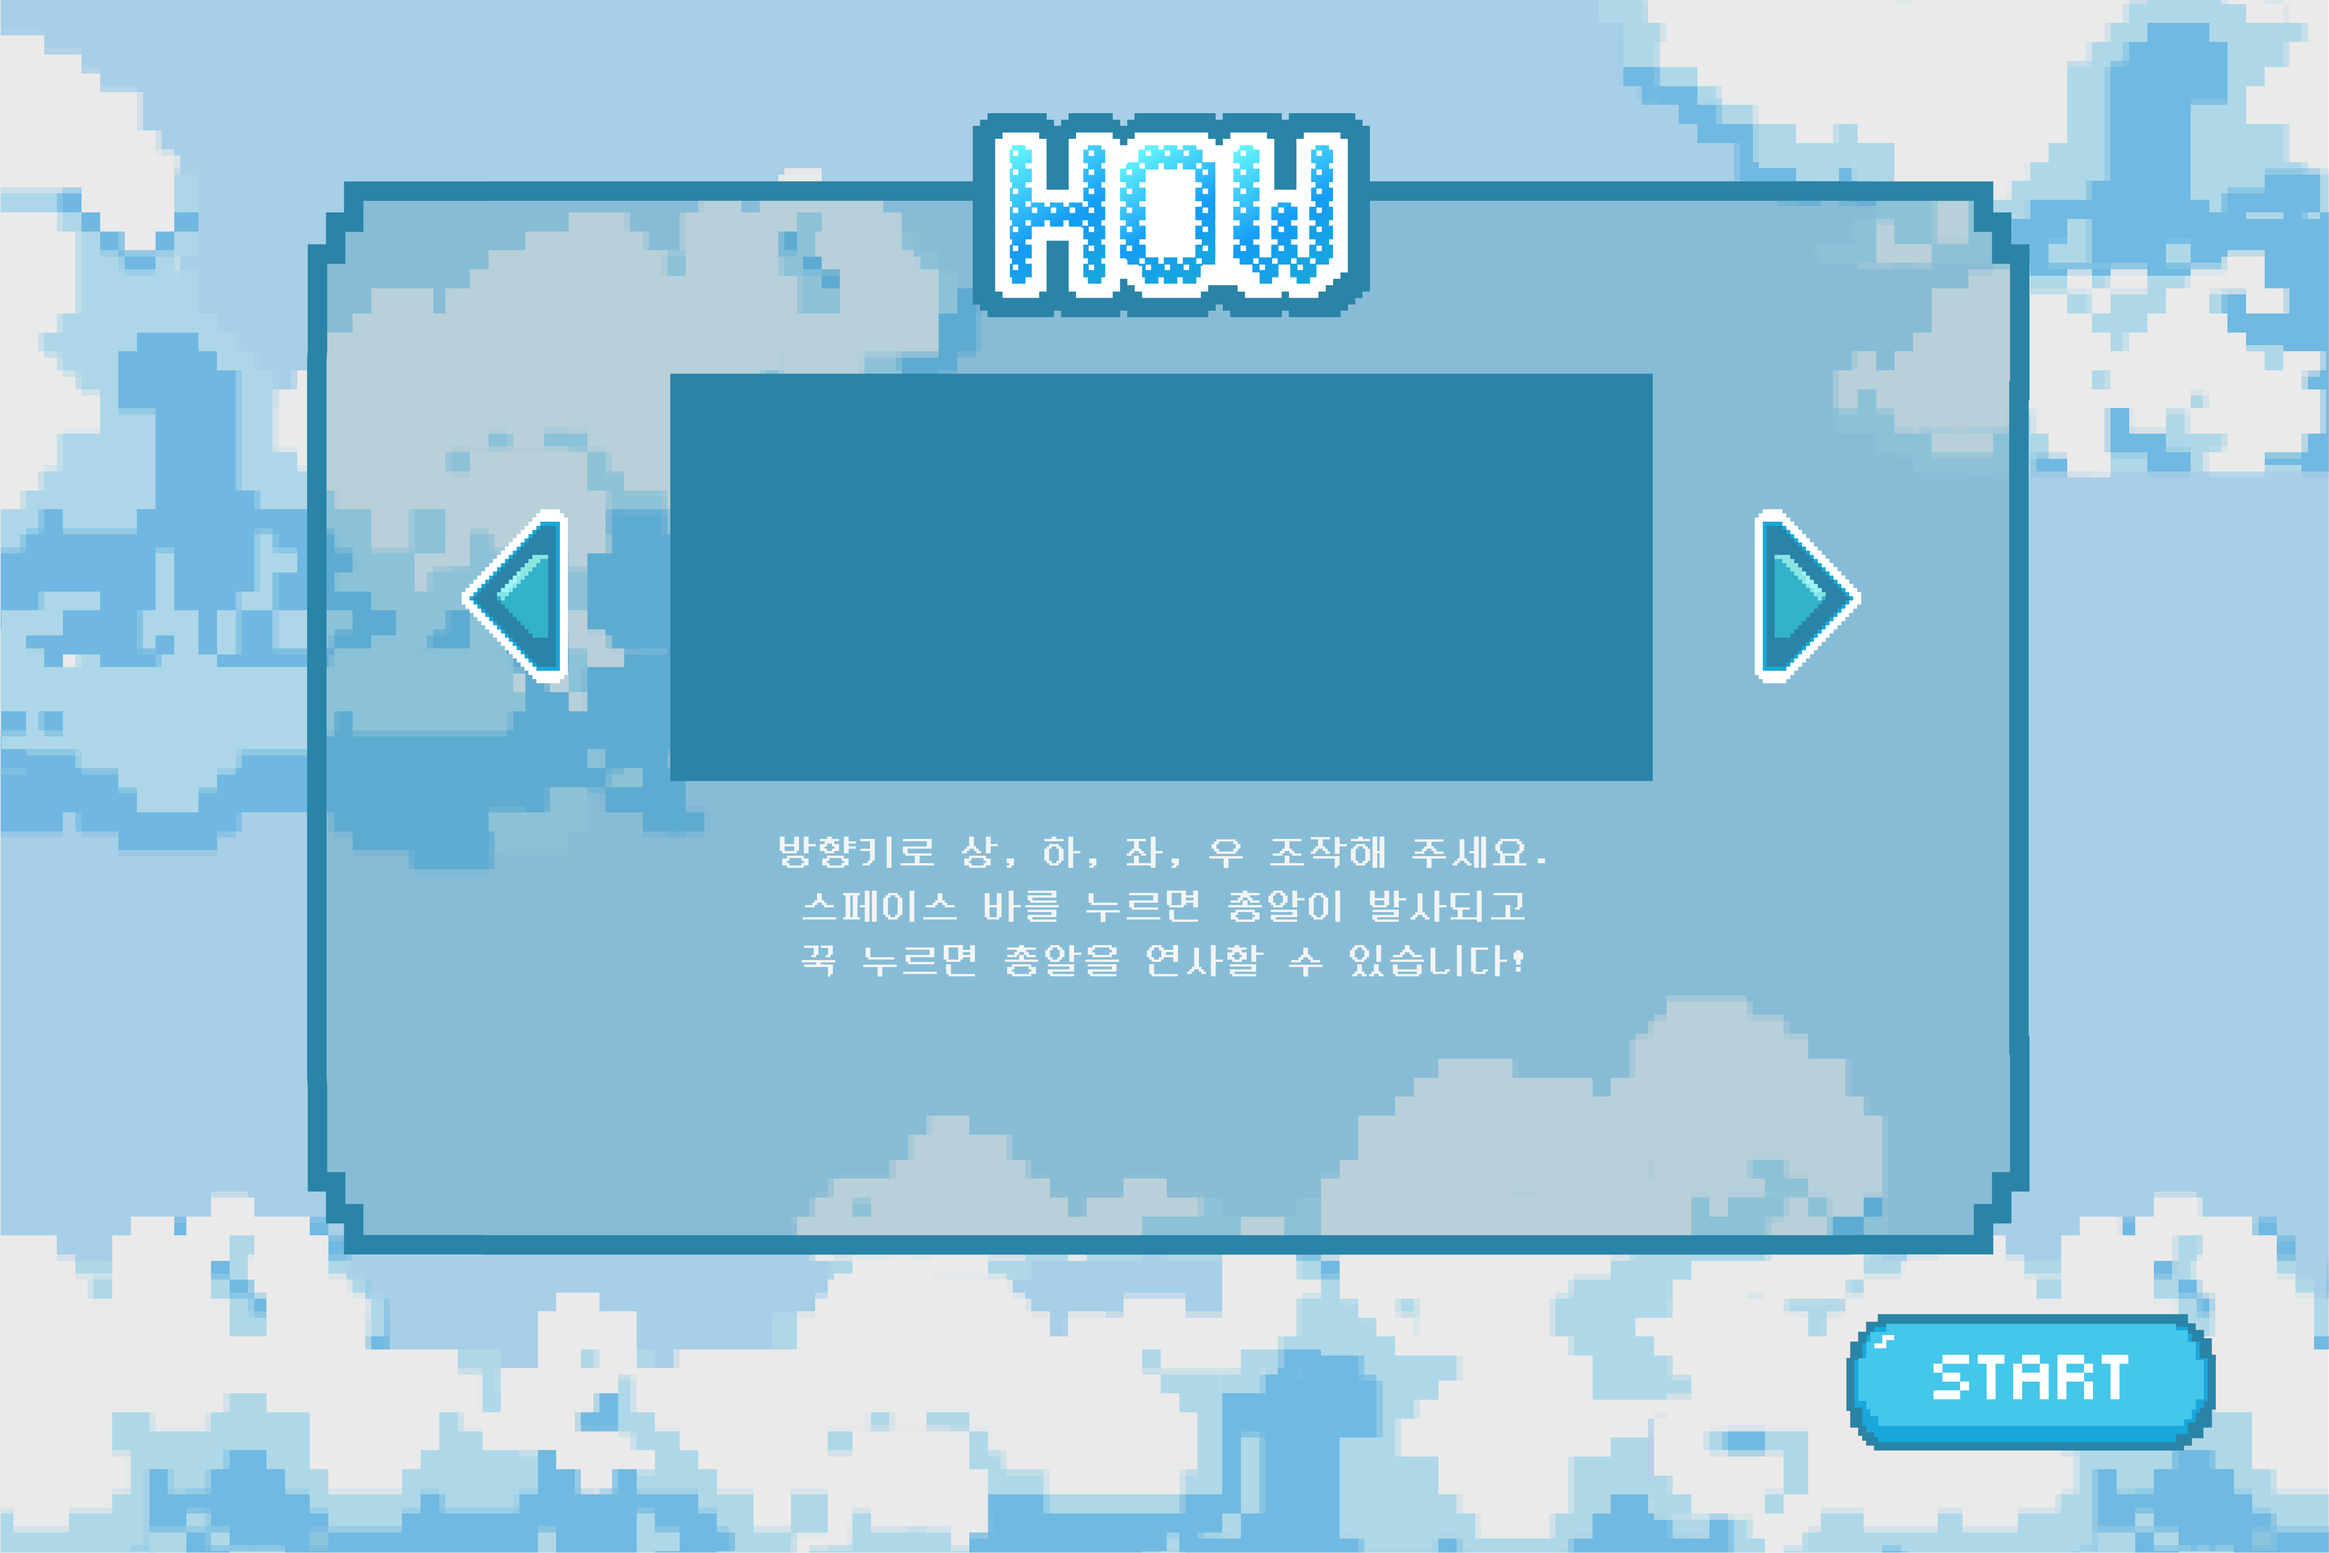
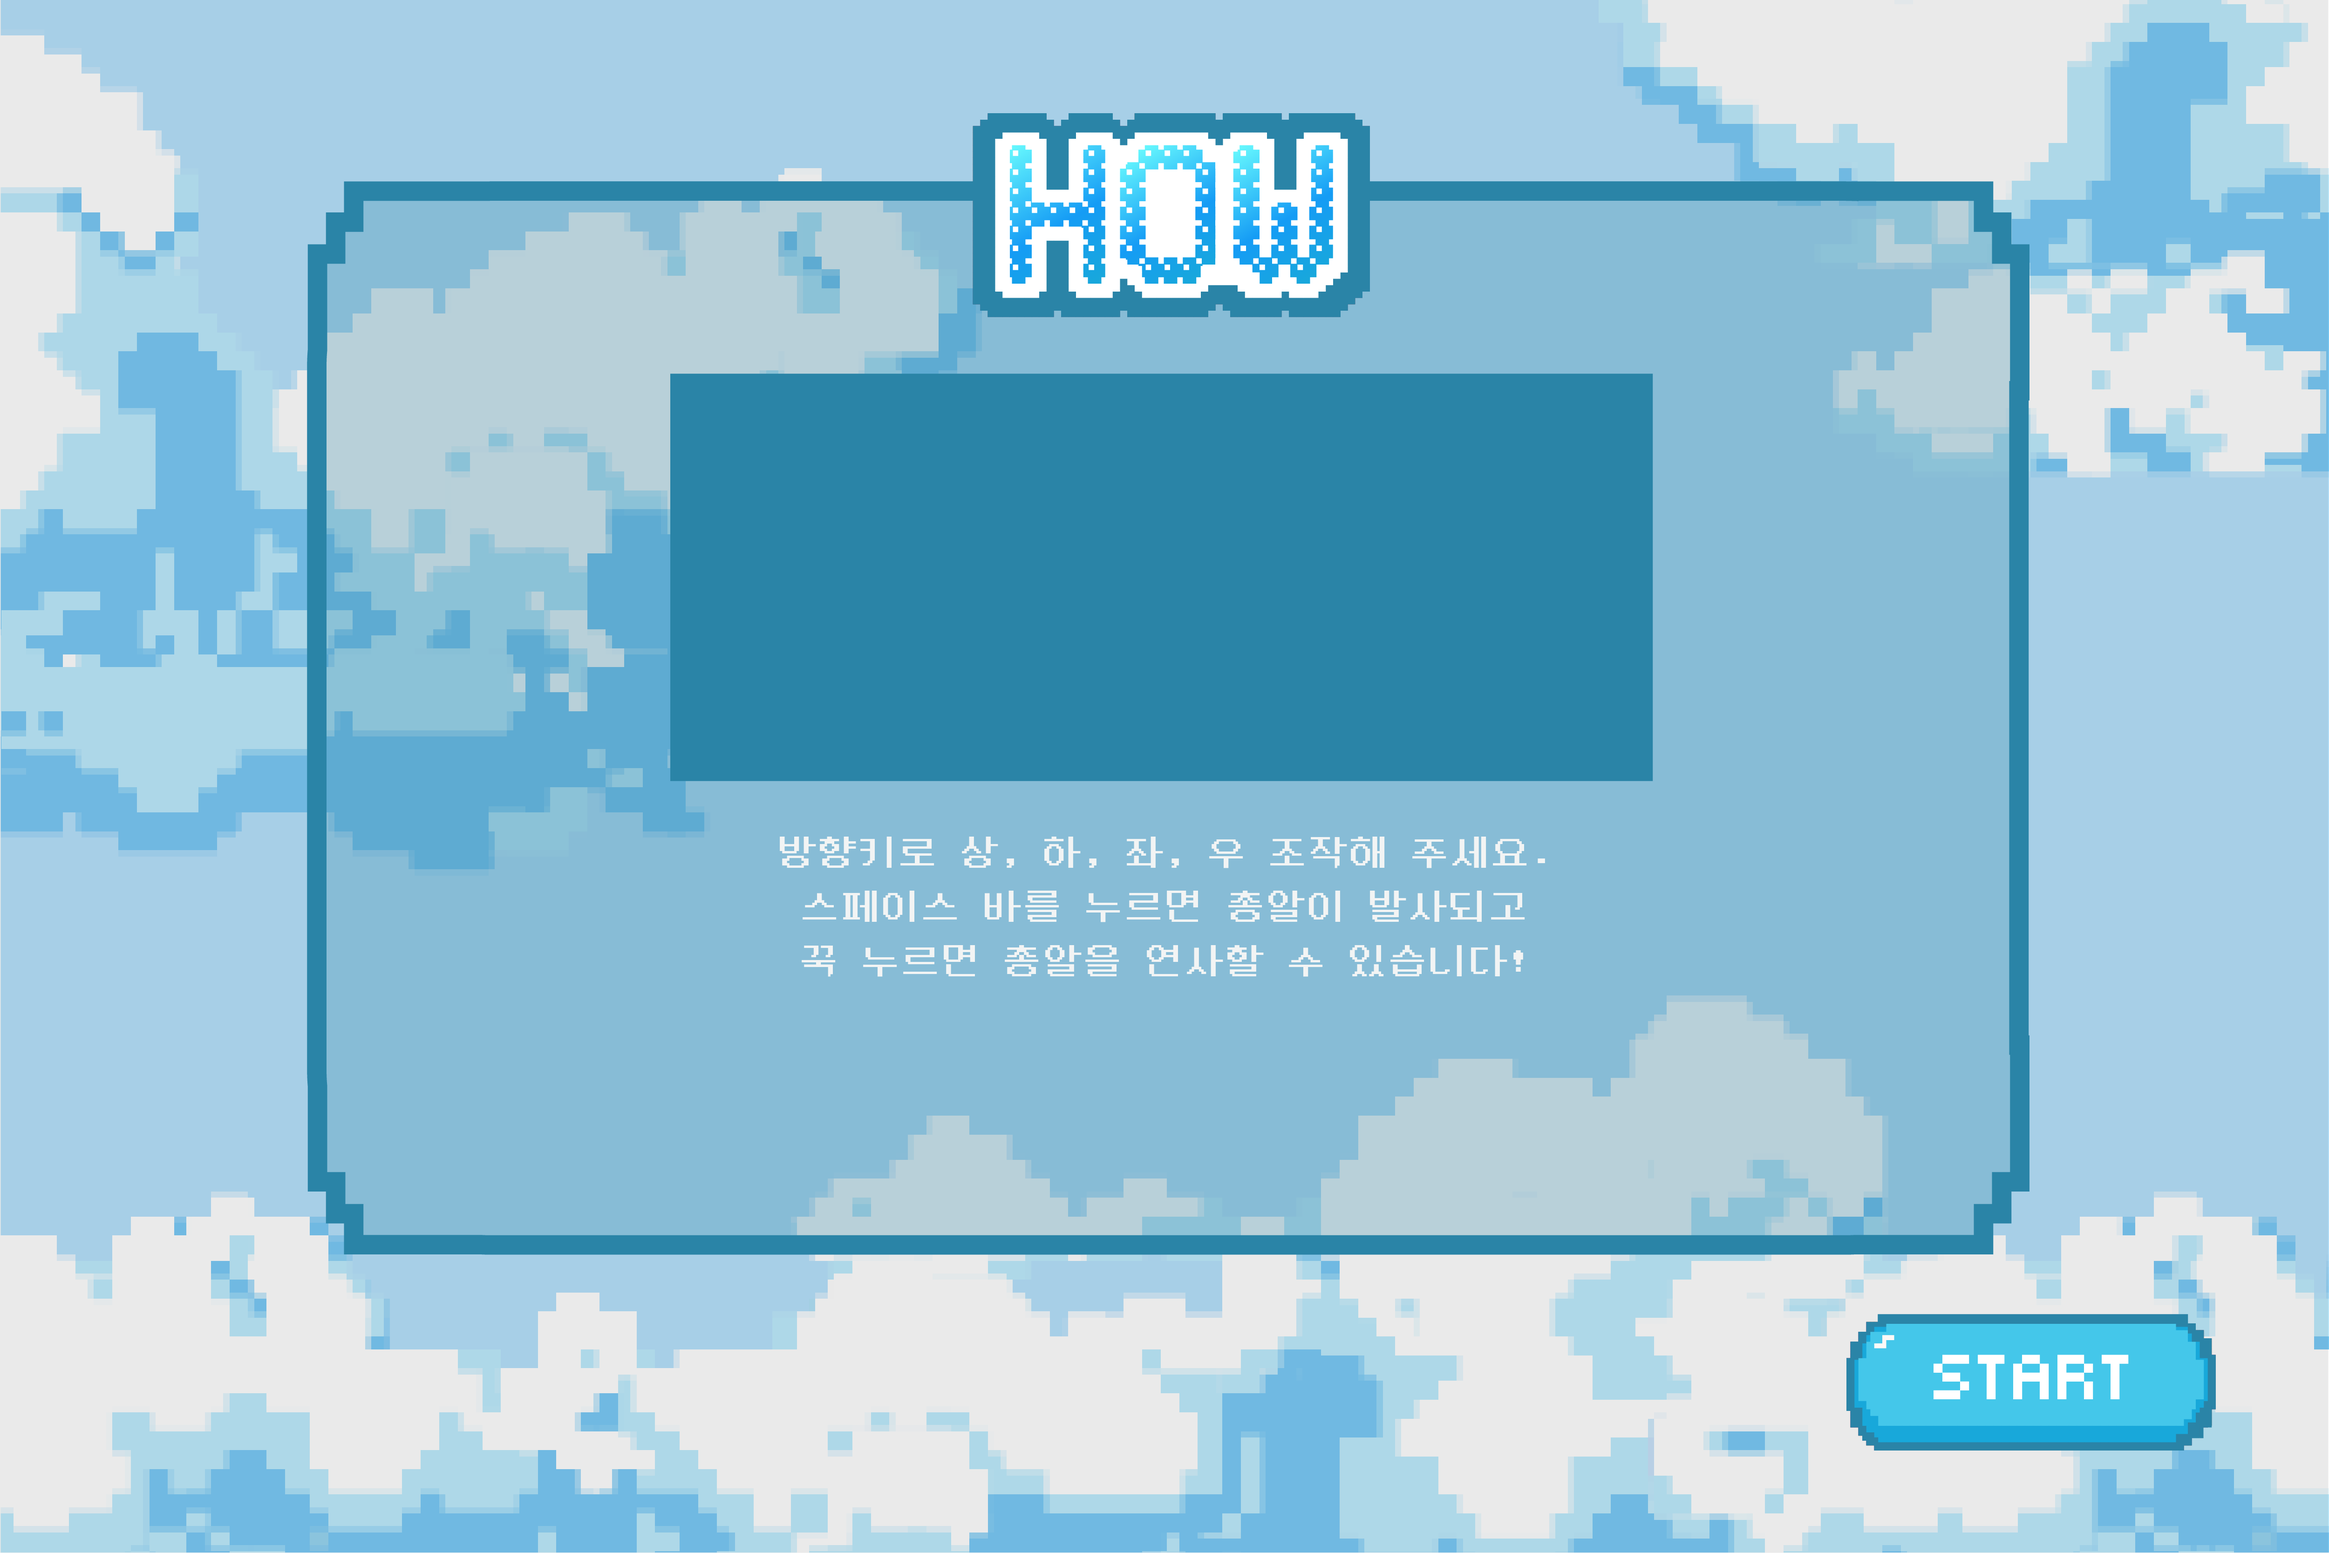
Ready 페이지 좌우 슬라이드 기능 완 / 로그인 페이지 Placeholder 텍스트

Changed region(s): [[0.7488, 0.3119, 0.8112, 0.4367], [0.1872, 0.3119, 0.2496, 0.4367]]

diff --git a/src/Ready.java b/src/Ready.java
@@ -14,14 +14,20 @@ public class Ready extends JFrame {
 
     Font font;
 
-    // 사용 이미지 불러오기
-    ImageIcon backGround1 = new ImageIcon("src/img/how/HOW_BASIC.png");
-    ImageIcon backGround2 = new ImageIcon("src/img/HOW_ITEM.png");
-    ImageIcon backGround3 = new ImageIcon("src/img/HOW_MONSTER.png");
+    // 설명 이미지 배열
+    ImageIcon[] Images = {
+        new ImageIcon("src/img/how/HOW_BASIC.png"),
+        new ImageIcon("src/img/how/HOW_ITEM.png"),
+        new ImageIcon("src/img/how/HOW_MONSTER.png"),
+    };
+
+    // 이미지 배열 인덱스
+    int count = 0;
+
     Image backGround;
-    ImageIcon introIcon = new ImageIcon("src/img/back_intro.png");
-    ImageIcon nextIcon = new ImageIcon("src/img/btn_next.png");
-    ImageIcon preIcon = new ImageIcon("src/img/btn_pre.png");
+    ImageIcon introIcon = new ImageIcon("src/img/how/HOW_START_BUTTON.png");
+    ImageIcon nextIcon = new ImageIcon("src/img/how/HOW_RIGHT_BUTTON.png");
+    ImageIcon preIcon = new ImageIcon("src/img/how/HOW_LEFT_BUTTON.png");
 
     public void init() { // 컴포넌트 세팅
         width = 1200;
@@ -41,7 +47,7 @@ public class Ready extends JFrame {
 
         MyPanel panel = new MyPanel();
         panel.setLayout(null);
-        backGround = backGround1.getImage();
+        backGround = Images[0].getImage();
 
         // 외부 폰트 사용하기
         try {
@@ -55,23 +61,23 @@ public class Ready extends JFrame {
         }
 
         // 버튼, 라벨 추가 및 설정
-
         JButton btnNext = new JButton(nextIcon);
-        btnNext.setBounds(900, 270, 50, 70);
+        btnNext.setBounds(895, 260, 75, 90);
         btnNext.setBorderPainted(false);
         btnNext.setContentAreaFilled(false);
         btnNext.setFocusPainted(false);
+        btnNext.setVisible(true);
 
         // 이전으로 넘기기 버튼
         JButton btnPre = new JButton(preIcon);
-        btnPre.setBounds(240, 270, 50, 70);
+        btnPre.setBounds(230, 260, 75, 90);
         btnPre.setBorderPainted(false);
         btnPre.setContentAreaFilled(false);
         btnPre.setFocusPainted(false);
         btnPre.setVisible(false);
 
         JButton btnIntro = new JButton(introIcon);
-        btnIntro.setBounds(40, 655, 90, 90);
+        btnIntro.setBounds(945, 665, 198, 78);
         btnIntro.setBorderPainted(false);
         btnIntro.setContentAreaFilled(false);
         btnIntro.setFocusPainted(false);
@@ -86,21 +92,55 @@ public class Ready extends JFrame {
         this.setResizable(false);
 
         // 화면 전환용 리스너
+        // 이전 페이지
         btnPre.addActionListener(new ActionListener() {
             @Override
             public void actionPerformed(ActionEvent e) {
-                backGround = backGround1.getImage();
-                btnNext.setVisible(true);
-                btnPre.setVisible(false);
+                // 첫 페이지일 경우
+                if(count == 0) {
+                    btnPre.setVisible(false);
+                    btnNext.setVisible(true);
+                    System.out.println("current index : " + count);
+                }
+                else {
+                    count--;
+                    backGround = Images[count].getImage();
+                    btnPre.setVisible(true);
+                    btnNext.setVisible(true);
+                    System.out.println("current index : " + count);
+                    if(count == 0) {
+                        btnPre.setVisible(false);
+                        btnNext.setVisible(true);
+                        System.out.println("first page!!!");
+                    }
+                }
             }
         });
-
+        // 다음 페이지
         btnNext.addActionListener(new ActionListener() {
             @Override
             public void actionPerformed(ActionEvent e) {
-                backGround = backGround2.getImage();
-                btnNext.setVisible(false);
                 btnPre.setVisible(true);
+                // 마지막 페이지일 경우
+                if(count == 2) {
+                    System.out.println("last page!!!");
+                    btnNext.setVisible(false);
+                    btnPre.setVisible(true);
+                    System.out.println("current index : " + count);
+                }
+                else {
+                    count++;
+                    backGround = Images[count].getImage();
+                    btnNext.setVisible(true);
+                    btnPre.setVisible(true);
+                    System.out.println("current index : " + count);
+                    if(count == 2) {
+                        System.out.println("last page!!!");
+                        btnNext.setVisible(false);
+                        btnPre.setVisible(true);
+                    }
+                }
+
             }
         });
 

diff --git a/src/LoginPage.java b/src/LoginPage.java
@@ -1,15 +1,19 @@
+import javax.naming.Name;
 import javax.swing.*;
 import java.awt.*;
-import java.awt.event.ActionEvent;
-import java.awt.event.ActionListener;
-import java.awt.event.WindowAdapter;
-import java.awt.event.WindowEvent;
+import java.awt.event.*;
+import java.io.BufferedInputStream;
+import java.io.FileInputStream;
+import java.io.IOException;
+import java.io.InputStream;
 import java.sql.*;
 
 public class LoginPage extends JFrame {
     private static final int FRAME_WIDTH = 1200;
     private static final int FRAME_HEIGHT = 800;
     private JPanel panel;
+
+    public Font font;
 
     public LoginPage() {
         // JFrame 타이틀 설정
@@ -32,16 +36,64 @@ public class LoginPage extends JFrame {
         panel.setLayout(new FlowLayout());
         panel.setLayout(null);
 
+        // TextField 폰트 설정
+        // 외부 폰트 사용하기
+        try {
+            InputStream inputStream = new BufferedInputStream(
+                    new FileInputStream("src/font/dunggeunmo.ttf"));
+
+            font = Font.createFont(Font.TRUETYPE_FONT, inputStream);
+            font = font.deriveFont(20f);
+
+        } catch (FontFormatException | IOException e) {
+            e.printStackTrace();
+        }
+
         // loginText 생성
-        JTextField NameText = new JTextField(20);
+        JTextField NameText = new JTextField("이름을 입력하세요");
         NameText.setBounds(350, 235, 400, 50);
 //        loginText.setOpaque(false);
         NameText.setBorder(BorderFactory.createEmptyBorder());
+        NameText.setFont(font);
+        NameText.setForeground(Color.GRAY);
+        NameText.addFocusListener(new FocusListener() {
+            @Override
+            public void focusGained(FocusEvent e) {
+                if(NameText.getText().equals("이름을 입력하세요")) {
+                    NameText.setText("");
+                    NameText.setForeground(Color.black);
+                }
+            }
+            @Override
+            public void focusLost(FocusEvent e) {
+                if(NameText.getText().isEmpty()) {
+                    NameText.setForeground(Color.GRAY);
+                    NameText.setText("이름을 입력하세요");
+                }
+            }
+        });
 
-        JTextField PasswordText = new JTextField(20);
+        JTextField PasswordText = new JTextField("비밀번호를 입력하세요");
         PasswordText.setBounds(350, 385, 400, 50);
-
         PasswordText.setBorder(BorderFactory.createEmptyBorder());
+        PasswordText.setFont(font);
+        PasswordText.setForeground(Color.GRAY);
+        PasswordText.addFocusListener(new FocusListener() {
+            @Override
+            public void focusGained(FocusEvent e) {
+                if(PasswordText.getText().equals("비밀번호를 입력하세요")) {
+                    PasswordText.setText("");
+                    PasswordText.setForeground(Color.black);
+                }
+            }
+            @Override
+            public void focusLost(FocusEvent e) {
+                if(PasswordText.getText().isEmpty()) {
+                    PasswordText.setForeground(Color.GRAY);
+                    PasswordText.setText("비밀번호를 입력하세요");
+                }
+            }
+        });
 
         JButton LoginBtn = new JButton("");
         LoginBtn.setBounds(370, 500,150, 50);
